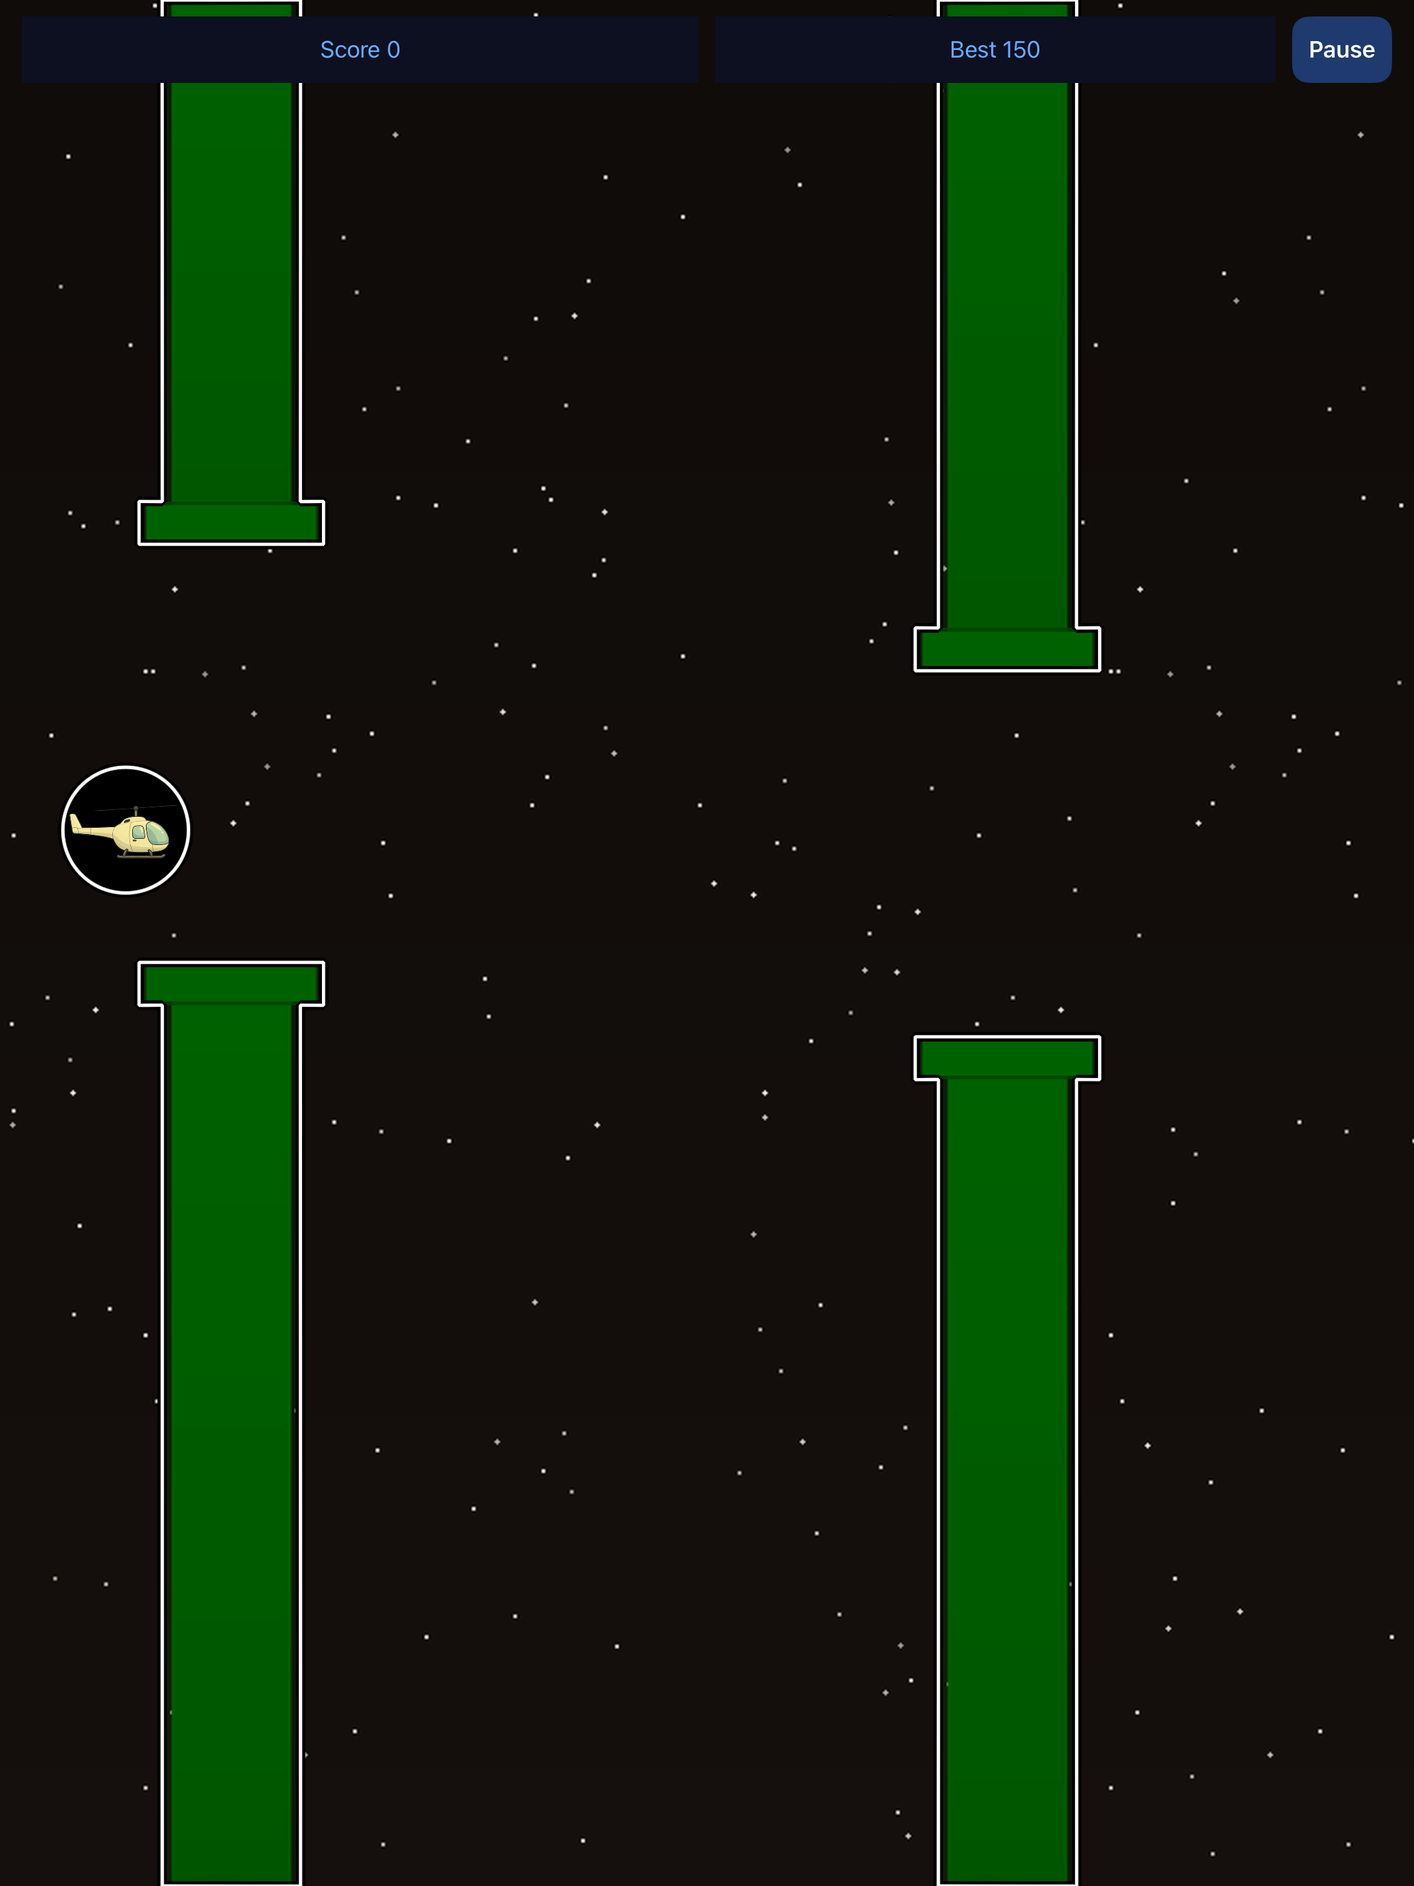
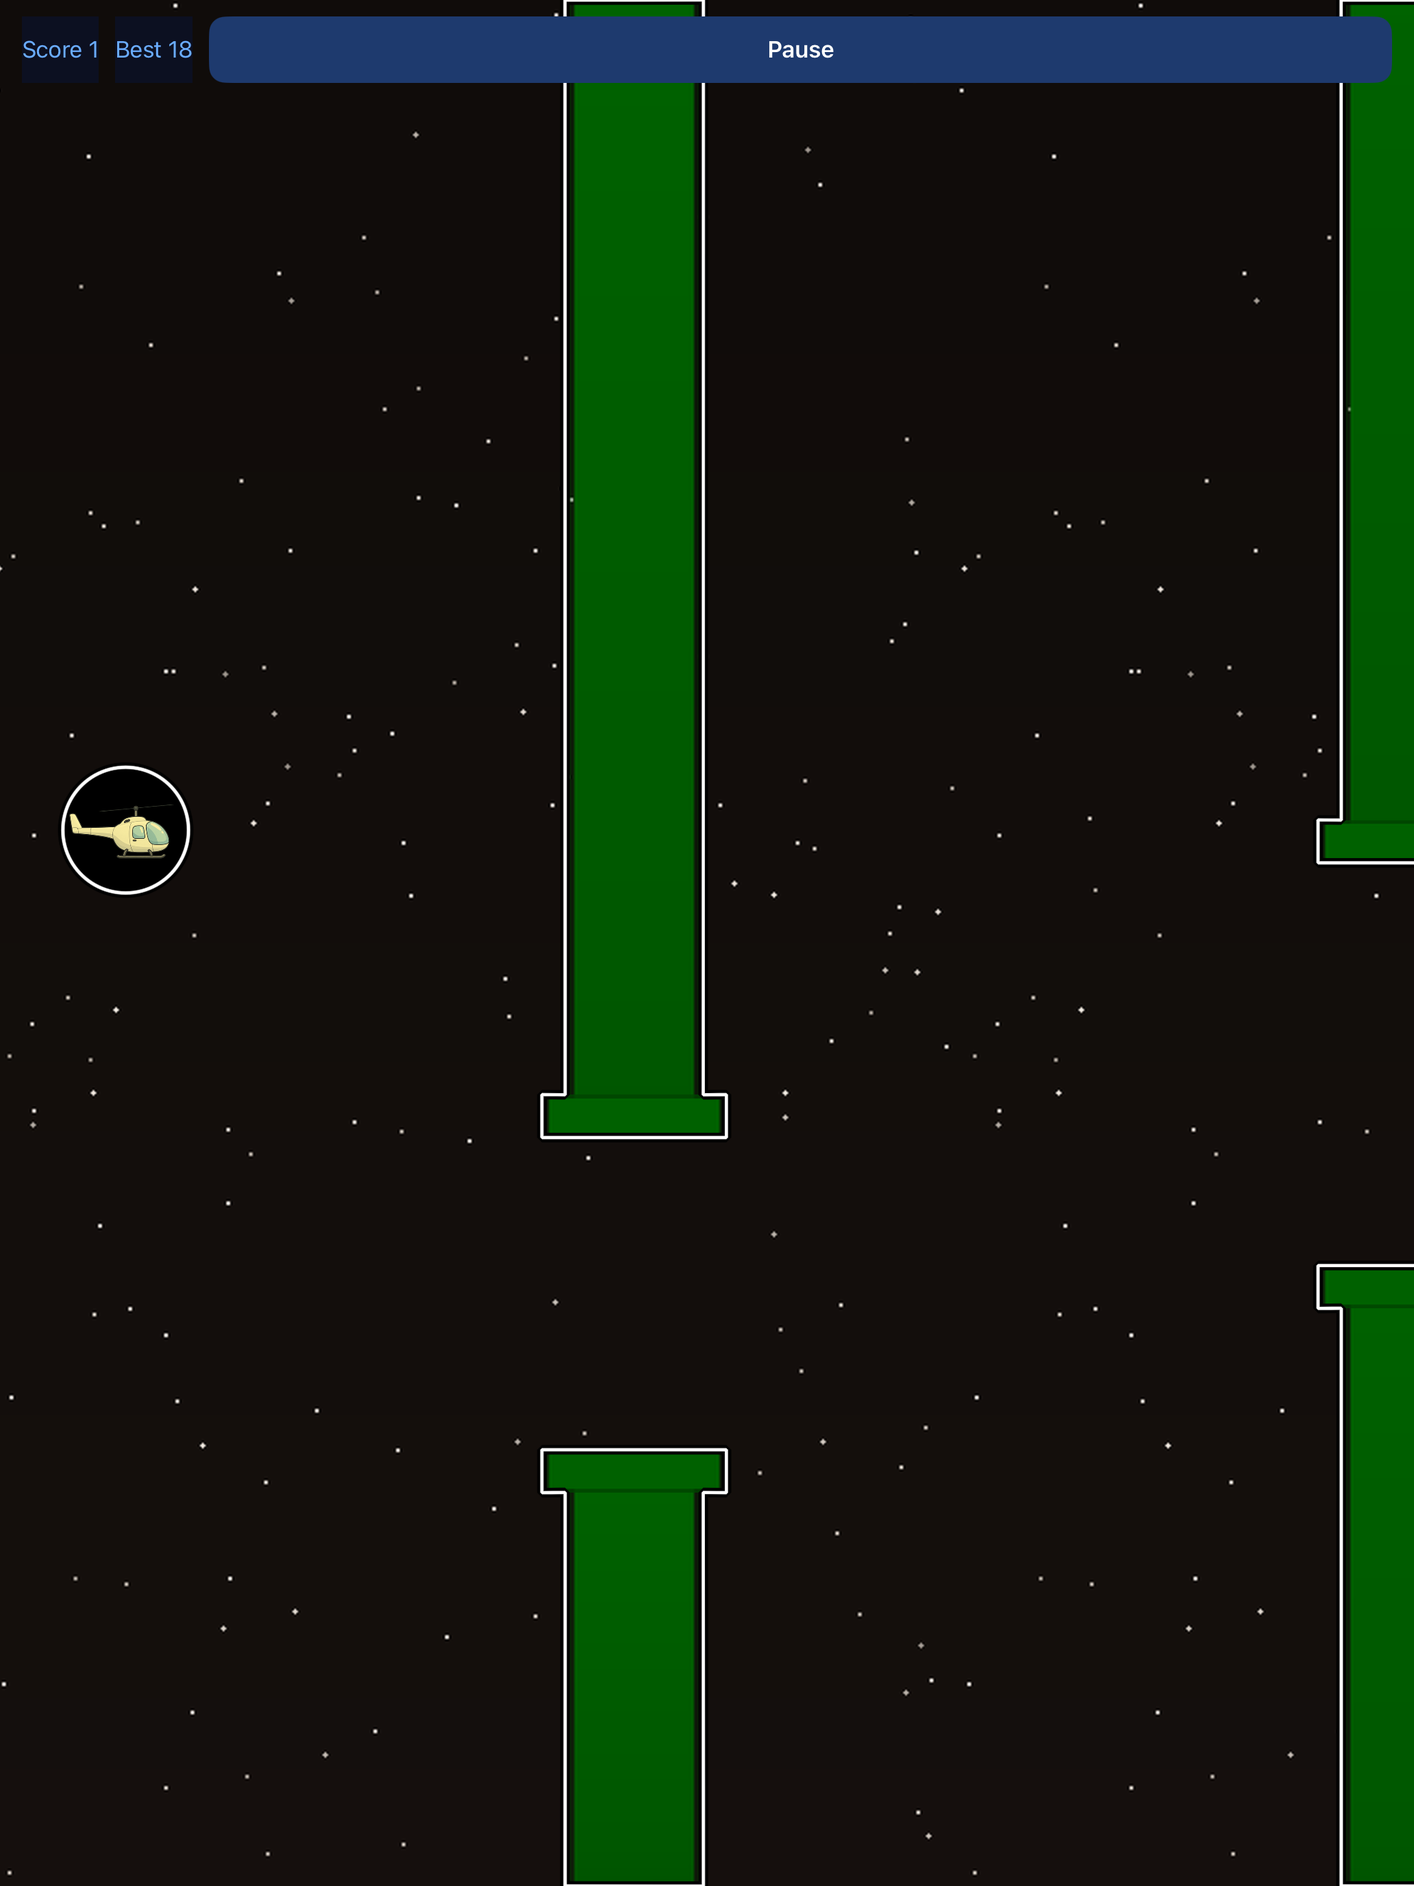
Recapture App Store screenshots for 2.1; record the 2.1 preparation
StoreScreenshotTests captures the store screenshots on demand
(TEST_RUNNER_STORE_SCREENSHOTS=1) and is skipped otherwise. All three
sets now show the 2.1 setting names.

diff --git a/HelichopterUITests/StoreScreenshotTests.swift b/HelichopterUITests/StoreScreenshotTests.swift
@@ -1,0 +1,93 @@
+import XCTest
+
+/// Captures the App Store screenshots (see "Screenshot capture brief" in
+/// `Release/APP_STORE_COPY.md`). Skipped in normal test runs. To capture, run on each
+/// store device with the variable set, then export the attachments from the result:
+///
+///     TEST_RUNNER_STORE_SCREENSHOTS=1 xcodebuild test ... \
+///         -only-testing:HelichopterUITests/StoreScreenshotTests
+final class StoreScreenshotTests: XCTestCase {
+    private var app: XCUIApplication!
+
+    override func setUpWithError() throws {
+        try XCTSkipUnless(ProcessInfo.processInfo.environment["STORE_SCREENSHOTS"] == "1",
+                          "Set TEST_RUNNER_STORE_SCREENSHOTS=1 to capture store screenshots")
+        continueAfterFailure = false
+    }
+
+    /// Launches with the default look, so every device's shots match. Values are plist
+    /// literals because some settings are read only as numbers or booleans, not text.
+    private func launch(guide: Bool = false, controlScheme: Int = 0) {
+        app = XCUIApplication()
+        app.launchArguments += ["-onboarding_completed_v1", guide ? "<false/>" : "<true/>",
+                                "-gs_noFailMode", "<true/>", "-gs_calmMode", "<false/>",
+                                "-gs_helicopterOutline", "<true/>", "-gs_hideGameWhilePaused", "<false/>",
+                                "-gs_showScore", "<true/>", "-gs_scanningEnabled", "<false/>",
+                                "-gs_isSettingsLocked", "<false/>", "-gs_selectedThemeID", "nightSky",
+                                "-gs_selectedPaletteID", "default", "-isMusicOn", "<false/>",
+                                "-gs_scanScheme", "<integer>0</integer>",
+                                "-gs_controlScheme", "<integer>\(controlScheme)</integer>",
+                                "-bestScore", "<integer>18</integer>"]
+        app.launch()
+    }
+
+    private func capture(_ name: String) {
+        // Let fades and scrolling finish.
+        Thread.sleep(forTimeInterval: 1.5)
+        let shot = XCTAttachment(screenshot: XCUIScreen.main.screenshot())
+        shot.name = name
+        shot.lifetime = .keepAlways
+        add(shot)
+    }
+
+    /// Scrolls Settings until `element`'s top sits at `fraction` of the screen height.
+    /// Slow drags in the left margin avoid coasting and never touch a slider.
+    private func scroll(_ element: XCUIElement, toTopAt fraction: CGFloat) {
+        XCTAssertTrue(element.waitForExistence(timeout: 5))
+        let height = app.frame.height
+        for _ in 0..<12 {
+            let offset = element.frame.minY - fraction * height
+            if abs(offset) < 4 { return }
+            let step = max(-0.6, min(0.6, offset / height))
+            let start = app.coordinate(withNormalizedOffset: CGVector(dx: 0.02, dy: step > 0 ? 0.85 : 0.3))
+            let end = start.withOffset(CGVector(dx: 0, dy: -step * height))
+            start.press(forDuration: 0.1, thenDragTo: end, withVelocity: .slow, thenHoldForDuration: 0.3)
+        }
+    }
+
+    func testCaptureStoreScreenshots() throws {
+        let isPad = UIDevice.current.userInterfaceIdiom == .pad
+
+        // Gameplay: Auto Hover holds the helicopter steady while pipes pass.
+        launch(controlScheme: 2)
+        app.buttons["Play"].tap()
+        let flight = app.buttons["Helicopter flight control"]
+        XCTAssertTrue(flight.waitForExistence(timeout: 5))
+        flight.tap()
+        // About 10 s in, the first pipe pair is passing the helicopter.
+        Thread.sleep(forTimeInterval: 8.5)
+        capture("1-gameplay")
+        app.terminate()
+
+        launch()
+        capture("2-home")
+        app.buttons["Settings"].tap()
+        XCTAssertTrue(app.buttons["Back"].waitForExistence(timeout: 5))
+        if isPad {
+            capture("3-difficulty-and-comfort")
+            scroll(app.staticTexts["Switch Access"], toTopAt: 0.17)
+            capture("4-switch-access-controls-themes")
+        } else {
+            scroll(app.staticTexts["Comfort"], toTopAt: 0.255)
+            capture("3-comfort-and-switch-access")
+            scroll(app.sliders["Scan Dwell Time"], toTopAt: 0.175)
+            capture("4-controls-themes-colours")
+            scroll(app.staticTexts["Difficulty Preset"], toTopAt: 0.255)
+            capture("5-difficulty")
+        }
+        app.terminate()
+
+        launch(guide: true)
+        capture(isPad ? "5-how-to-play" : "6-how-to-play")
+    }
+}

diff --git a/Audit/PROGRESS_LOG.md b/Audit/PROGRESS_LOG.md
@@ -330,3 +330,17 @@ New 20-frame helicopter (white/grayscale, 20 FPS). 9-slice pipes (no more UIGrap
 - Cause: the helicopter's physics body still collided with pipes until the first hit started the pass-through window, so that first contact was resolved as a solid bump. A corner's slanted push left sideways speed, and nothing ever cleared it.
 - Fix (`HelicopterNode`): `collisionBitMask` is now computed. In No-Fail mode pipes only report contact (the hit sound, haptic, and pass-through still happen) and never collide; with No-Fail off, pipes still collide and end the round. The mask is reapplied at each round start, so a Settings change takes effect next round. `update` also clears horizontal speed every frame, since the helicopter only moves vertically.
 - Test: `noFailPipesNeverPushTheHelicopterSideways`.
+
+### 2026-10-12 — 2.1 release preparation and test clean-up (Claude Code)
+- Branch `release-2.1-prep` (not pushed). Everything for 2.1 that does not need the owner's devices or account is done; 2.1 still waits on the owner's device checks (Plan 01 "Manual checks", VoiceOver and Voice Control in roadmap step 2), then archive, upload, and submit.
+- **What's New for 2.1** is final in `Release/APP_STORE_COPY.md`: rebuilt menus, the VoiceOver, Voice Control, and slider changes, the renamed settings, larger game in narrow iPad windows, the No-Fail pipe-corner fix, and lower power use on menus.
+- **Screenshots:** the 2.0 Settings shots showed text 2.1 changed ("◀ Back", "Auto-Advance / Two-Switch", the old Auto-Scan description), so all three sets in `Release/Screenshots/` (6.3", 6.9", iPad 13") were recaptured in the same framing. New `StoreScreenshotTests` UI test captures them; it is skipped unless `TEST_RUNNER_STORE_SCREENSHOTS=1` (see `CLAUDE.md`). The owner must replace the sets in App Store Connect.
+- **Support page:** `docs/support.html` updated to the 2.1 names on the separate unpushed branch `docs-support-2.1` (`bb8524a`). Merge and push only after Apple approves 2.1, since pushing publishes it.
+- **Release check:** `Tools/release_check.sh` (unsigned Release) passes: version 2.1 (3), no blocking failures. The only WARN is the expected one: re-run it on the signed `.xcarchive`.
+- **Test hang fixed.** With parallel testing on, Swift Testing ran different suites at the same time in one test process. They share `GameSettings.shared`, `UserDefaults.standard`, and `ScreenChangeAnnouncer.poster`, so they changed each other's state: a reproduction run had 3 failures (for example 34 screen-change posts where 1 was expected) and stalled while Xcode collected diagnostics. The scheme now marks `HelichopterTests` not parallelizable, and the `-parallel-testing-enabled NO` advice is gone from `CLAUDE.md`.
+- **Timing-sensitive tests:** hold-to-pause, auto-scan, the high-score celebration, Settings panel rebuilds, and transition waits now poll with `waitUntil` (`HelichopterTests/Waiting.swift`) instead of fixed sleeps. The key-repeat check compares the hold timer itself (`GameScene.switchPauseTimer` is now `private(set)`) instead of relying on a 0.5 s window.
+- **Renamed** `Nodes/Game Componens/` to `Game Components` (folder and Xcode group).
+- **Particle sprites** (`Assets/Particles/`, `spark` and `bokeh`): confirmed unused and not in the Xcode project, so they never ship. Not deleted: the permission check blocked the deletion, so it waits for the owner's go-ahead.
+- **Found while capturing:** UI-test launch arguments such as `-gs_controlScheme 2` are ignored, because `GameSettings.read` accepts only stored numbers. Plist literals (`<integer>2</integer>`, `<true/>`) work. This affects tests only (players never pass launch arguments), and it is noted in `CLAUDE.md`.
+- **Simulator SpringBoard crash (not our app):** while the iPad Pro 13" simulator booted, SpringBoard aborted in Apple's wallpaper-snapshot code (`PaperBoardUI` → `PosterUIFoundation` → `RunningBoardServices` `-[RBSAssertion dealloc]`), 14 s after it started and before the first test step. `AppIntentsLiveEntityService` crashed at the same time on an XPC entitlement check. Neither report contains Helichopter frames, there is no Helichopter crash report, and the screenshot run then passed. This is an iOS 27 simulator issue; nothing to fix here. If it ever appears on a device, look again.
+- Tests: **112 unit tests and the UI audit pass** twice with no extra flags; the screenshot test is skipped.

diff --git a/Plans/ROADMAP.md b/Plans/ROADMAP.md
@@ -8,7 +8,7 @@ Written 2026-10-08, after version 2.0 went live. Work top to bottom unless the o
 
 - [x] Commit the build-number change in `project.pbxproj` (`CURRENT_PROJECT_VERSION` 1 → 2, the uploaded build) and tag the release `2.0` in git. Done 2026-10-08 (commit `1edfa21`, tag `2.0`).
 - [x] **Owner:** Publish the Accessibility Nutrition Label drafts in App Store Connect now that 2.0 is live (Larger Text, Dark Interface, Sufficient Contrast, Reduced Motion, Differentiate Without Color Alone). Published 2026-10-08.
-- [ ] **When 2.1 is released:** update `docs/support.html` (live site; push publishes it) to the 2.1 names: Timed / Step with Switch 2 scanning, Up/Down Switches flight. It still describes 2.0 on purpose.
+- [ ] **When 2.1 is released:** update `docs/support.html` (live site; push publishes it) to the 2.1 names: Timed / Step with Switch 2 scanning, Up/Down Switches flight. It still describes 2.0 on purpose. **Prepared 2026-10-12** on the unpushed branch `docs-support-2.1` (commit `bb8524a`): merge it into `master` and push after Apple approves 2.1.
 - [ ] **Owner:** Check Xcode → Window → Organizer → Crashes, Hangs, and Feedback weekly for the first month (until about 2026-11-08). Ongoing; does not block step 1. This needs no SDK and does not change the privacy answers.
 
 ## 1. Remove the "double page" effect — [Plan 01](01_SINGLE_LAYER_UI.md)
@@ -51,9 +51,9 @@ Ordered by value to players, highest first.
 
 ## 5. Engineering clean-up
 
-- [ ] Fix the full test suite hanging with parallel simulator clones, then remove the `-parallel-testing-enabled NO` advice from `CLAUDE.md`.
-- [ ] Review timing-sensitive tests (hold-to-pause, scanner dwell) so they cannot fail under load.
+- [x] Fix the full test suite hanging with parallel simulator clones, then remove the `-parallel-testing-enabled NO` advice from `CLAUDE.md`. Done 2026-10-12: suites ran concurrently in one process and changed shared state; the scheme now runs unit tests one at a time.
+- [x] Review timing-sensitive tests (hold-to-pause, scanner dwell) so they cannot fail under load. Done 2026-10-12: they wait on conditions with `waitUntil`.
 - [x] Remove `fatalError` from `ToggleButtonNode`/`TriggleButtonNode` responders, unless Plan 01 Stage B deletes them first. (Both classes deleted in Stage B step 4, 2026-10-08.)
-- [ ] Rename the `Nodes/Game Componens/` folder to `Game Components` (update the Xcode project group at the same time).
-- [ ] Remove the inherited particle sprites in `Assets/Particles/` if unused (see `Release/ASSET_RIGHTS.md`).
+- [x] Rename the `Nodes/Game Componens/` folder to `Game Components` (update the Xcode project group at the same time). Done 2026-10-12.
+- [ ] Remove the inherited particle sprites in `Assets/Particles/` if unused (see `Release/ASSET_RIGHTS.md`). Checked 2026-10-12: unused (no code or archive names `spark` or `bokeh`), and the folder is not in the Xcode project, so it never ships. Deleting it needs the owner's go-ahead.
 - [ ] **Owner (optional):** download the lossless music original from Freesound to replace the preview-quality encode.

diff --git a/HELICHOPTER_PROJECT.md b/HELICHOPTER_PROJECT.md
@@ -1,6 +1,6 @@
 # Helichopter — Project Reference
 
-**Status (2026-10-08):** Version 2.0 (build 2, git tag `2.0`) is live on the App Store. Development is now post-launch improvement work, ordered in [Plans/ROADMAP.md](Plans/ROADMAP.md). Next release is 2.1 (build 3; version already set): Plan 01 Stage B. Stage A's transition helper is merged but will not ship on its own; Stage B code steps 1–5 are done, and 2.1 now waits on the owner's device recordings. 110 unit tests and 1 UI test pass; the UI test runs Apple's accessibility audit on every screen.
+**Status (2026-10-12):** Version 2.0 (build 2, git tag `2.0`) is live on the App Store. Development is now post-launch improvement work, ordered in [Plans/ROADMAP.md](Plans/ROADMAP.md). Next release is 2.1 (build 3; version already set): Plan 01 Stage B. Stage A's transition helper is merged but will not ship on its own; Stage B code steps 1–5 are done, and 2.1 now waits on the owner's device recordings. Everything else for 2.1 is ready: What's New in `Release/APP_STORE_COPY.md`, new screenshots in `Release/Screenshots/`, a passing `Tools/release_check.sh`, and the support-page update on branch `docs-support-2.1`. 112 unit tests and 1 UI test pass; the UI test runs Apple's accessibility audit on every screen.
 
 > **Starting a session:** read this file, then the roadmap, then the plan file for the work you are doing. Before you finish, append an entry to [Audit/PROGRESS_LOG.md](Audit/PROGRESS_LOG.md).
 > **If this file and the code disagree, trust the code** and fix this file.
@@ -94,7 +94,6 @@ Tests live in `HelichopterTests/` (Swift Testing): settings, scanner, lifecycle,
 
 - **Double page during screen changes:** live in 2.0 (owner accepted it). Fixed on `master` by Plan 01 Stage B (every menu is UIKit, one cross-fade per change); ships as 2.1 once the owner's device recordings pass: [Plans/01_SINGLE_LAYER_UI.md](Plans/01_SINGLE_LAYER_UI.md).
 - Narrow iPad windows use the phone layout (larger game, smaller bars) since Plan 01 step 6, but only when Play is pressed: resizing mid-run changes the scale mode only. Not yet checked in a real Split View or Stage Manager window.
-- The full test suite occasionally hangs with parallel simulator clones. Use `-parallel-testing-enabled NO` if it does.
 - **Not yet verified on a physical device:** VoiceOver, Voice Control, Switch Control, hardware switches, adaptive controllers, the oldest supported device, iPad window resizing, and real transitions.
 
 ---

diff --git a/CLAUDE.md b/CLAUDE.md
@@ -18,10 +18,12 @@ xcodebuild test -project Helichopter.xcodeproj -scheme Helichopter -destination 
 
 - Pick an installed simulator with `xcrun simctl list devices available`.
 - Swift Testing filters need the parentheses: `-only-testing:'HelichopterTests/Suite/testName()'`.
-- If the full suite hangs, add `-parallel-testing-enabled NO`.
+- Unit tests run one at a time (the scheme marks `HelichopterTests` not parallelizable) because they share `GameSettings.shared`, `UserDefaults.standard`, and `ScreenChangeAnnouncer.poster`. Keep it that way. To wait for a timer in a test, use `waitUntil` (`HelichopterTests/Waiting.swift`), not a fixed sleep.
 - `HelichopterTests/` is a file-system-synchronized group, so new test files are picked up without editing the project.
 - Tests use Swift Testing (`@Test`, `#expect`). Many touch `GameSettings.shared` and `UserDefaults.standard`; save and restore values as the existing tests do.
 - Run `Tools/release_check.sh` before any submission (it also accepts a `.xcarchive`).
+- App Store screenshots: `TEST_RUNNER_STORE_SCREENSHOTS=1` with `-only-testing:HelichopterUITests/StoreScreenshotTests` on iPhone 17, iPhone 18 Pro Max, and iPad Pro 13-inch; export the attachments with `xcrun xcresulttool export attachments`. It is skipped otherwise.
+- UI-test launch arguments that set numeric or boolean settings must be plist literals (`"<integer>2</integer>"`, `"<true/>"`); `GameSettings` ignores plain text such as `"2"`.
 - `HelichopterUITests` (about 1 minute) runs Apple's accessibility audit on every screen. For a quick loop, use `-only-testing:HelichopterTests`; run the UI test after any UI change. A new screen or control should be added to its walk.
 
 ## Architecture rules that bite

diff --git a/Release/APP_STORE_COPY.md b/Release/APP_STORE_COPY.md
@@ -75,7 +75,7 @@ These features are implemented. Full sound-only play and physical assistive-devi
 
 ## Screenshot capture brief
 
-Use real release-candidate screens on iPhone and iPad; do not upload test-layout captures as product screenshots. Capture gameplay with a visible gap, control choices, Comfort settings, and How to Play. Lead with gameplay. Optional captions: “Fly at your own pace”, “Choose how you fly”, “Practice with No-Fail Mode”, “Adjust your comfort settings”. Verify required sizes in [Apple's screenshot specifications](https://developer.apple.com/help/app-store-connect/reference/app-information/screenshot-specifications/) at upload time. Final 2.0 screenshots are in `Release/Screenshots/`.
+Use real release-candidate screens on iPhone and iPad; do not upload test-layout captures as product screenshots. Capture gameplay with a visible gap, control choices, Comfort settings, and How to Play. Lead with gameplay. Optional captions: “Fly at your own pace”, “Choose how you fly”, “Practice with No-Fail Mode”, “Adjust your comfort settings”. Verify required sizes in [Apple's screenshot specifications](https://developer.apple.com/help/app-store-connect/reference/app-information/screenshot-specifications/) at upload time. The 2.1 screenshots (captured 2026-10-12, replacing 2.0's, which are in git history) are in `Release/Screenshots/`. Recapture with `StoreScreenshotTests` (see `CLAUDE.md`). In App Store Connect, replace all three sets (6.3", 6.9", iPad 13") on the 2.1 version.
 
 ## Account fields still needed
 
